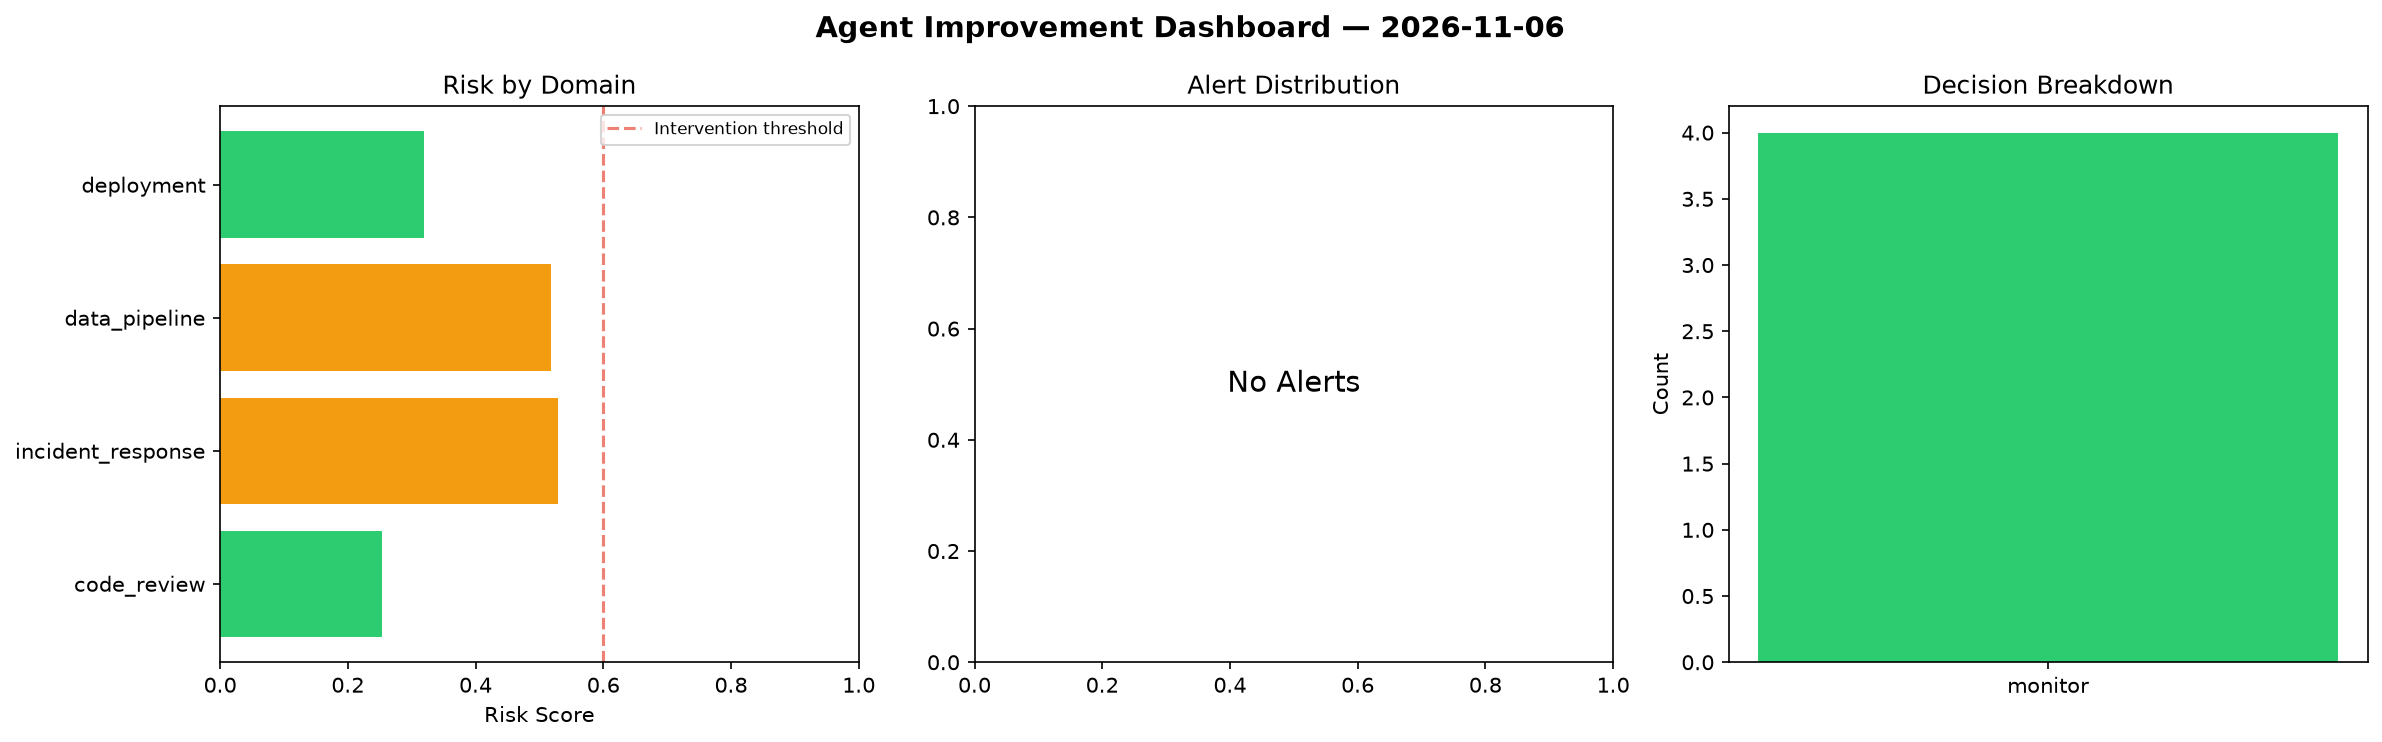
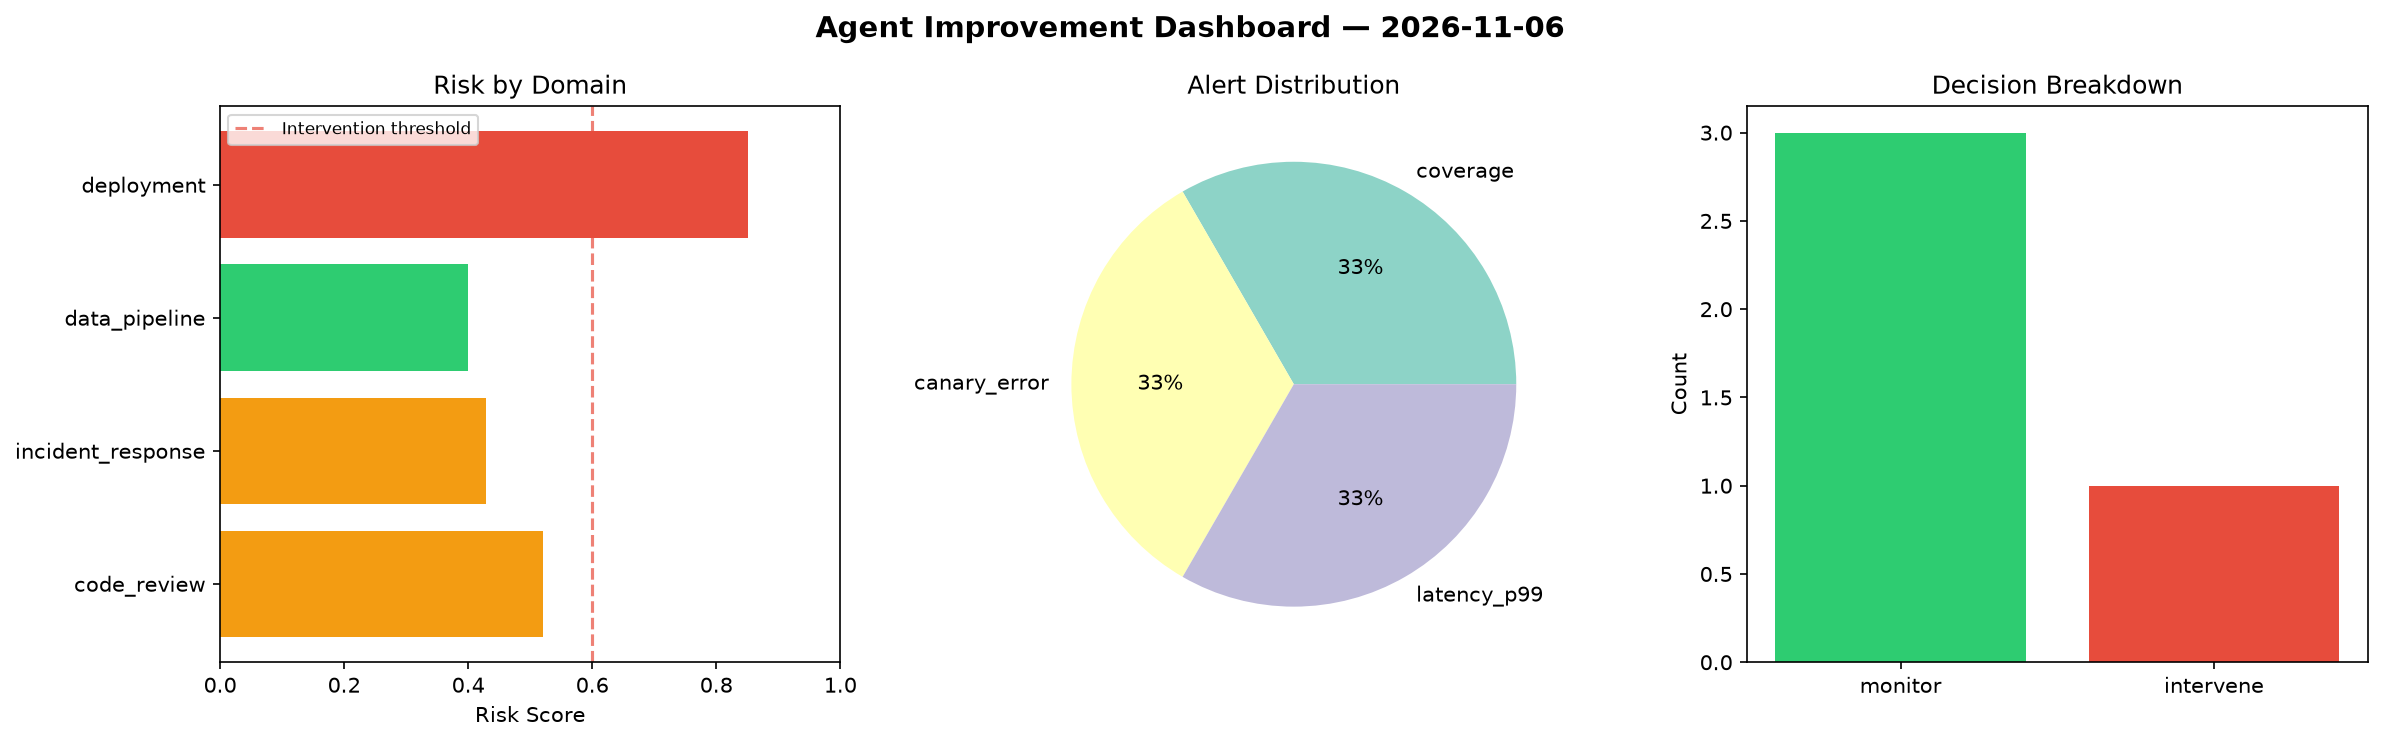
agent-improvement: daily cycle 2026-11-06T15:55

diff --git a/logs/2026-11-06.md b/logs/2026-11-06.md
@@ -1,6 +1,6 @@
 # Agent Improvement Report — 2026-11-06
 
-**Cycle ID:** `b53c9a6b` | **Avg Risk:** 0.405 | **Interventions:** 0/4
+**Cycle ID:** `093d06da` | **Avg Risk:** 0.55 | **Interventions:** 1/4
 
 ![Dashboard](2026-11-06_dashboard.png)
 
@@ -10,18 +10,18 @@
 
 | Domain | Risk Score | Decision | Alerts |
 |--------|-----------|----------|--------|
-| code_review | 0.253 | monitor | none |
-| incident_response | 0.5295 | monitor | none |
-| data_pipeline | 0.518 | monitor | none |
-| deployment | 0.3194 | monitor | none |
+| code_review | 0.5206 | monitor | coverage |
+| incident_response | 0.4291 | monitor | none |
+| data_pipeline | 0.3995 | monitor | none |
+| deployment | 0.851 | intervene | canary_error, latency_p99 |
 
 ## Delta vs Yesterday
 
 | Domain | Today | Yesterday | Change |
 |--------|-------|-----------|--------|
-| code_review | 0.253 | 0.3634 | 📉 -30.4% |
-| incident_response | 0.5295 | 0.3956 | 📈 33.8% |
-| data_pipeline | 0.518 | 0.3264 | 📈 58.7% |
-| deployment | 0.3194 | 0.5102 | 📉 -37.4% |
+| code_review | 0.5206 | 0.3634 | 📈 43.3% |
+| incident_response | 0.4291 | 0.3956 | 📈 8.5% |
+| data_pipeline | 0.3995 | 0.3264 | 📈 22.4% |
+| deployment | 0.851 | 0.5102 | 📈 66.8% |
 
 **Refinement:** `{'adjustment': 'tighten_thresholds', 'trend': 'degrading', 'window': 4}`
